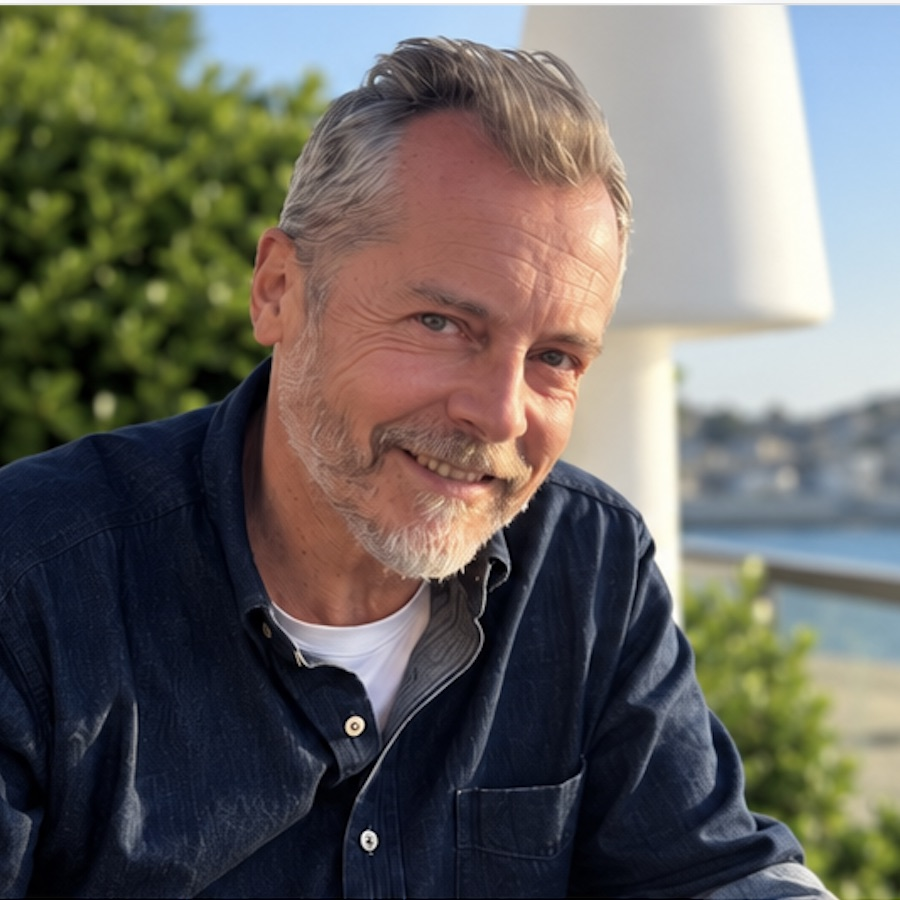
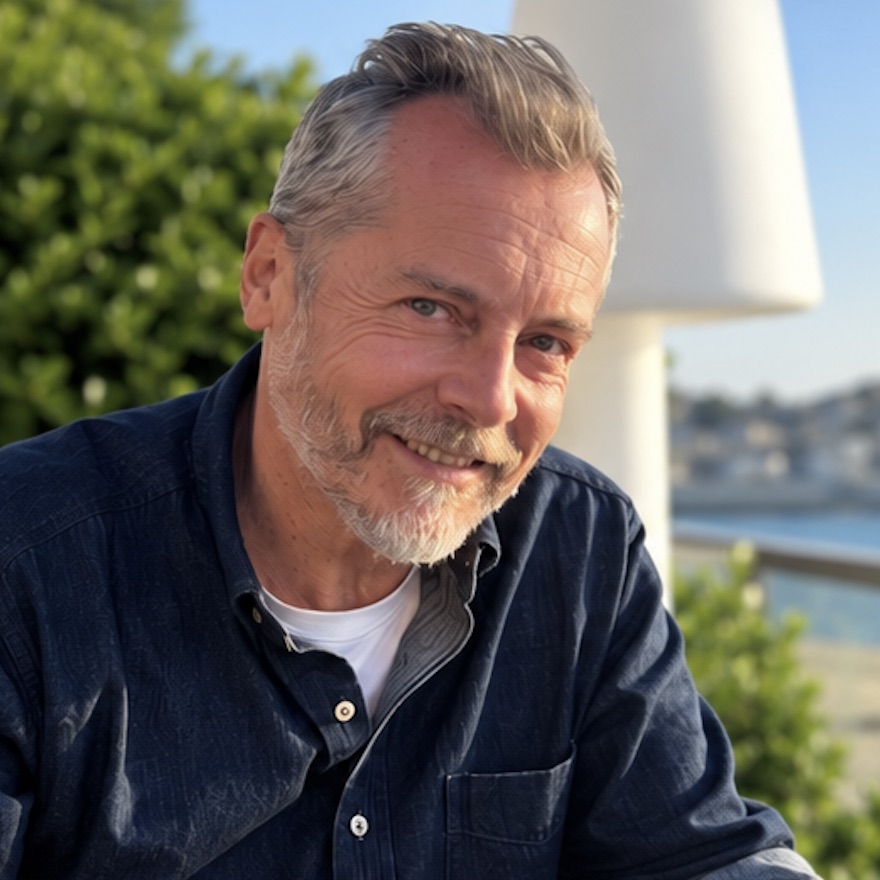
Portrait: tighter crop, text wraps around it

diff --git a/story.html b/story.html
@@ -58,6 +58,9 @@
   input, textarea, select { font:inherit; font-size:16px; padding:12px 16px; background:var(--surface); color:var(--ink); border:1px solid var(--line); border-radius:999px; }
   textarea { border-radius:18px; min-height:110px; resize:vertical; }
   button.btn { border:0; cursor:pointer; font:inherit; font-weight:600; }
+  .photo.portrait { float:left; width:min(42%, 420px); margin:6px 36px 12px 0; }
+  @media (max-width:640px) { .photo.portrait { float:none; width:100%; margin:0 0 24px; } }
+  .qa { clear:both; }
   .qa { border-top:1px solid var(--line); margin-top:24px; max-width:var(--content); }
   .qa dt { color:var(--accent); font-weight:600; margin:22px 0 6px; }
   .qa dd { margin:0; color:var(--ink2); max-width:var(--content); }
@@ -127,7 +130,7 @@
     <div class="wrap">
       <div class="kicker"><span data-fr>Notre histoire</span><span data-en>Our story</span></div>
       <h2><span data-fr>Cinquante ans à acheter et vendre des disques</span><span data-en>Fifty years of buying and selling records</span></h2>
-      <div class="photo" style="margin:0 0 28px; max-width:420px"><img src="laurent.jpg" alt="Laurent, Dig Records"></div>
+      <div class="photo portrait"><img src="laurent.jpg" alt="Laurent, Dig Records"></div>
       <p><span data-fr>Laurent a eu son premier disque à neuf ans, une compilation des Beatles offerte par sa grand-mère, achetée chez l'électroménager du coin. Il n'a jamais arrêté depuis. Une mère qui écoutait du jazz, de la bossa nova, Sinatra et Gainsbourg, une platine à lui dans sa chambre à treize ans, puis le rock, le punk, le reggae, le jazz, le funk, le premier hip-hop, et tout ce que les nouvelles radios du début des années 80 faisaient découvrir.</span><span data-en>Laurent got his first record at nine, a Beatles compilation from his grandmother, bought at the local electrical shop. He never stopped. A mother who played jazz, bossa nova, Sinatra and Gainsbourg, his own turntable in his bedroom at thirteen, then rock, punk, reggae, jazz, funk, early hip-hop and everything the new radio stations of the early eighties opened up.</span></p>
       <p><span data-fr>Cinquante ans plus tard, la collection dépasse les quinze mille disques, rangés par genre, puis par artiste, label ou producteur, dans l'ordre où ils sont sortis. Soul, funk, jazz, reggae, rare groove et musique brésilienne en font le cœur, avec du hip-hop et de la house autour, et le rock des débuts toujours là. Ce sont des disques achetés en creusant, dans les vide-greniers de France, les bacs à un dollar des États-Unis, les boutiques de Rio, de Tokyo, de Seattle. Un collectionneur éclectique, dit-il, qui s'ennuie quand une soirée ne joue qu'un seul genre.</span><span data-en>Fifty years on, the collection passes fifteen thousand records, filed by genre, then by artist, label or producer, in the order they came out. Soul, funk, jazz, reggae, rare groove and Brazilian music are the core, with hip-hop and house around them and the rock he started with still in the racks. They were bought by digging: French vide-greniers, dollar bins in America, shops in Rio, Tokyo and Seattle. An eclectic collector, he says, who gets bored when a night plays only one genre.</span></p>
       <p><span data-fr>Dans un livre sur les collectionneurs, on lui demandait ce que deviendrait tout cela. Sa réponse : « J'ai ce rêve d'ouvrir mon propre disquaire, pour que ma collection soit transmise avant que je parte. » DIG RECORDS, c'est ce rêve, à Rennes. Les disques qu'il a cherchés pendant cinquante ans, dans des bacs où vous pouvez les trouver à votre tour.</span><span data-en>In a book about collectors he was asked what would become of it all. His answer: "I have this dream project of opening my own record store, so eventually my collection will be passed on before I go." DIG RECORDS is that dream, in Rennes. The records he spent fifty years finding, in crates where you can find them next.</span></p>
